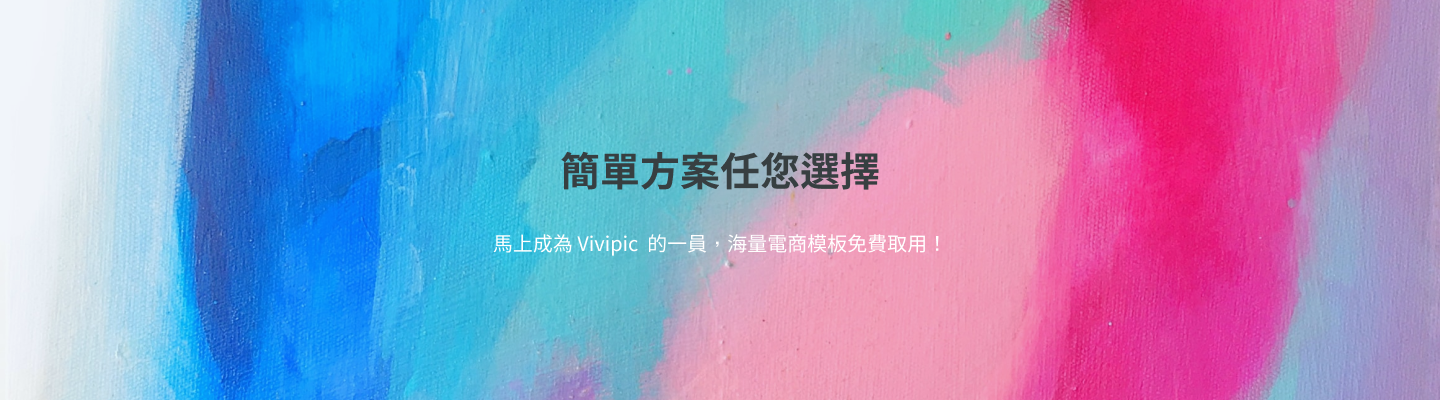
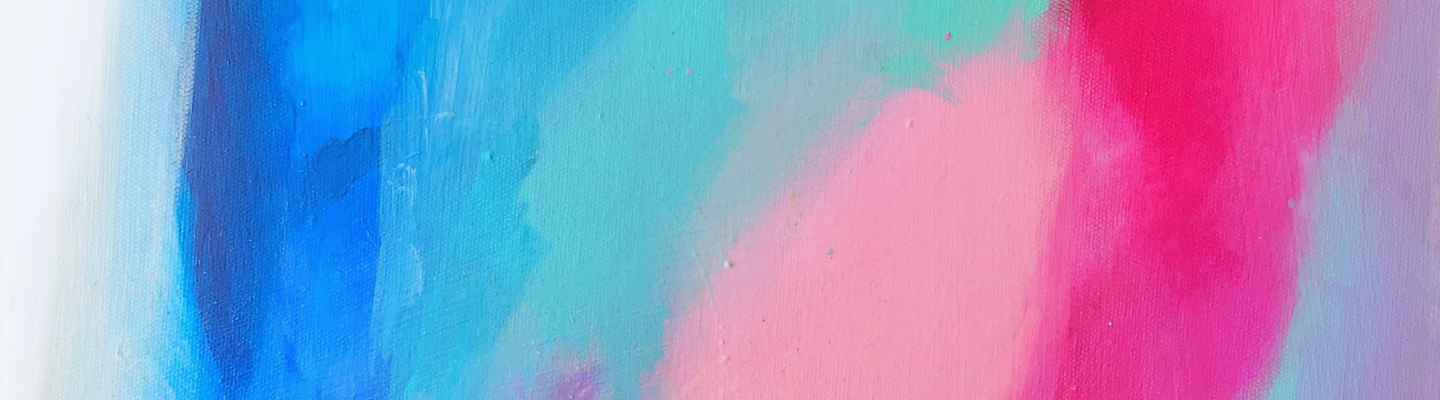
pricing: replace content from images to elements

Changed region(s): [[0.375, 0.36, 0.625, 0.48], [0.3438, 0.57, 0.6562, 0.63]]

diff --git a/src/views/Pricing.vue b/src/views/Pricing.vue
@@ -2,12 +2,63 @@
   div(class="pricing")
     nu-header
     div(class="pricing-content")
-      img(class="pointer"
-        @click="goToPage('Editor')"
-        :src="require('@/assets/img/png/pricing/header.png')")
-      img(class="pricing-case pointer"
-        @click="goToPage('Editor')"
-        :src="require('@/assets/img/png/pricing/content.png')")
+      div(class="pricing-header")
+        img(:src="require('@/assets/img/png/pricing/header.png')")
+        div(class="pricing-header-title") 簡單方案任您選擇
+        div(class="pricing-header-subtitle") 馬上成為 Vivipic 的一員，海量電商模板免費取用！
+      div(class="pricing-cases pt-50")
+        div(class="pricing-case")
+          div(class="pricing-case-title heading-4") 基礎版
+          div(class="pricing-case-block block-basic")
+            div(class="pricing-case-price")
+              span(class="heading-5") $0
+              span(class="label-mid") {{' /月'}}
+            div(class="pricing-case-features")
+              div(v-for="item in basicFeature"
+                class="pricing-case-feature")
+                svg-icon(class="pointer"
+                  iconWidth="25px"
+                  iconName="check"
+                  iconColor="blue-1")
+                span {{item}}
+            div(style="padding-top: 150px;")
+              div(class="pricing-case-btn"
+                style="width: 60%;"
+                @click="goToPage('Editor')") 註 冊 即 享 用
+        div(class="pricing-case")
+          div(class="pricing-case-title heading-4")
+            span 專業版
+            div(style="position: relative;")
+              div(class="ml-25 label-mid label")
+            span(class="body-1 label-text") 限 時 優 惠
+          div(class="pricing-case-block block-pri")
+            div(class="pricing-case-price")
+              span(class="heading-5"
+                style="text-decoration: line-through;") $349
+              span(class="label-mid") {{' /月'}}
+              span(class="pl-40 heading-2 text-yellow") $0
+              span(class="label-lg text-yellow") {{' /月'}}
+            div(class="pricing-case-features")
+              div(v-for="item in priBasicFeature"
+                class="pricing-case-feature")
+                svg-icon(class="pointer"
+                  iconWidth="25px"
+                  iconName="check"
+                  iconColor="blue-3")
+                span {{item}}
+            div(class="mt-20 dividing")
+            div(class="pricing-case-features")
+              div(v-for="item in priFeature"
+                class="pricing-case-feature text-yellow")
+                svg-icon(class="pointer"
+                  iconWidth="25px"
+                  iconName="check"
+                  iconColor="yellow")
+                span {{item}}
+            div(class="pt-50")
+              div(class="pricing-case-btn"
+                style="width: 50%;"
+                @click="goToPage('Editor')") 立 即 註 冊 免 費 享 用
     nu-footer
 </template>
 
@@ -24,6 +75,24 @@ export default Vue.extend({
   },
   data() {
     return {
+      basicFeature: [
+        '永久免費',
+        '精美素材媒體庫',
+        '無限次數下載',
+        '上千個精美模板',
+        '超過 200 萬張的可商用圖庫'
+      ],
+      priBasicFeature: [
+        '限時優惠',
+        '精美素材媒體庫',
+        '無限次數下載',
+        '上千個精美模板',
+        '超過 200 萬張的可商用圖庫'
+      ],
+      priFeature: [
+        '付費模板無限暢用',
+        '付費素材無限暢用'
+      ]
     }
   },
   computed: {
@@ -44,13 +113,124 @@ export default Vue.extend({
   overflow-x: hidden;
   overflow-y: scroll;
 
+  &-content {
+    display: flex;
+    flex-direction: column;
+    align-items: center;
+    padding-bottom: 100px;
+  }
+
+  &-header {
+    display: flex;
+    justify-content: center;
+    position: relative;
+    width: 100%;
+
+    > img {
+      width: 100%;
+    }
+
+    &-title {
+      position: absolute;
+      top: 35%;
+      font-size: 2.4vw;
+      font-weight: 700;
+      line-height: 1.3;
+    }
+
+    &-subtitle {
+      position: absolute;
+      top: 55%;
+      font-size: 1.3vw;
+      color: white;
+    }
+  }
+
+  &-cases {
+    display: grid;
+    grid-auto-flow: column;
+    column-gap: 2vw;
+  }
+
   &-case {
-    padding: 100px 12vw 10vw 12vw;
+    display: flex;
+    flex-direction: column;
+
+    &-title {
+      display: flex;
+      position: relative;
+      text-align: left;
+      color: setColor(blue-1);
+      padding-bottom: 30px;
+
+      .label {
+        width: 110px;
+        height: 30px;
+        color: white;
+        background: setColor(red);
+        transform: skewX(-20deg);
+        position: absolute;
+        left: 0;
+        top: 5px;
+      }
+      .label-text {
+        color: white;
+        padding: 7px 0 0 40px;
+        z-index: 2;
+      }
+
+    }
+
+    &-block {
+      border-radius: 10px;
+      text-align: left;
+      font-family: 'Mulish';
+      padding: 2vw 2.5vw;
+    }
+    .block-basic {
+      width: 28vw;
+      background: setColor(gray-5);
+    }
+    .block-pri {
+      width: 35vw;
+      background: setColor(blue-1);
+      color: white;
+    }
+
+    &-features {
+      display: grid;
+      grid-template-columns: repeat(auto-fill, 14vw);
+      row-gap: 20px;
+      padding-top: 3vh;
+    }
+
+    &-feature {
+      display: flex;
+      align-items: center;
+    }
+
+    &-btn {
+      cursor: pointer;
+      background: white;
+      color: setColor(blue-1);
+      text-align: center;
+      border-radius: 25px;
+      font-size: 14px;
+      font-weight: 600;
+      padding: 15px;
+
+      &:hover{
+        transition: all .2s ease-in-out;
+        background: setColor(gray-4);
+        box-shadow: 3px 3px 10px 0 rgba(48, 55, 66, 0.15);
+        transform: translate(0, -3px);
+      }
+    }
   }
 }
-.pricing-content {
-  display: flex;
-  flex-direction: column;
-  padding-bottom: 100px;
+
+.dividing {
+  width: 100%;
+  border: 1px #fff solid;
 }
 </style>

diff --git a/src/assets/scss/utils/variables.scss b/src/assets/scss/utils/variables.scss
@@ -22,7 +22,8 @@ $colors: (
 	red: #EB5757,
 	red-1: #C74848,
 	red-2: #F05B5B,
-	green-1: #4DB433
+	green-1: #4DB433,
+	yellow: #FFECA8
 );
 
 $linear-gradient: (
